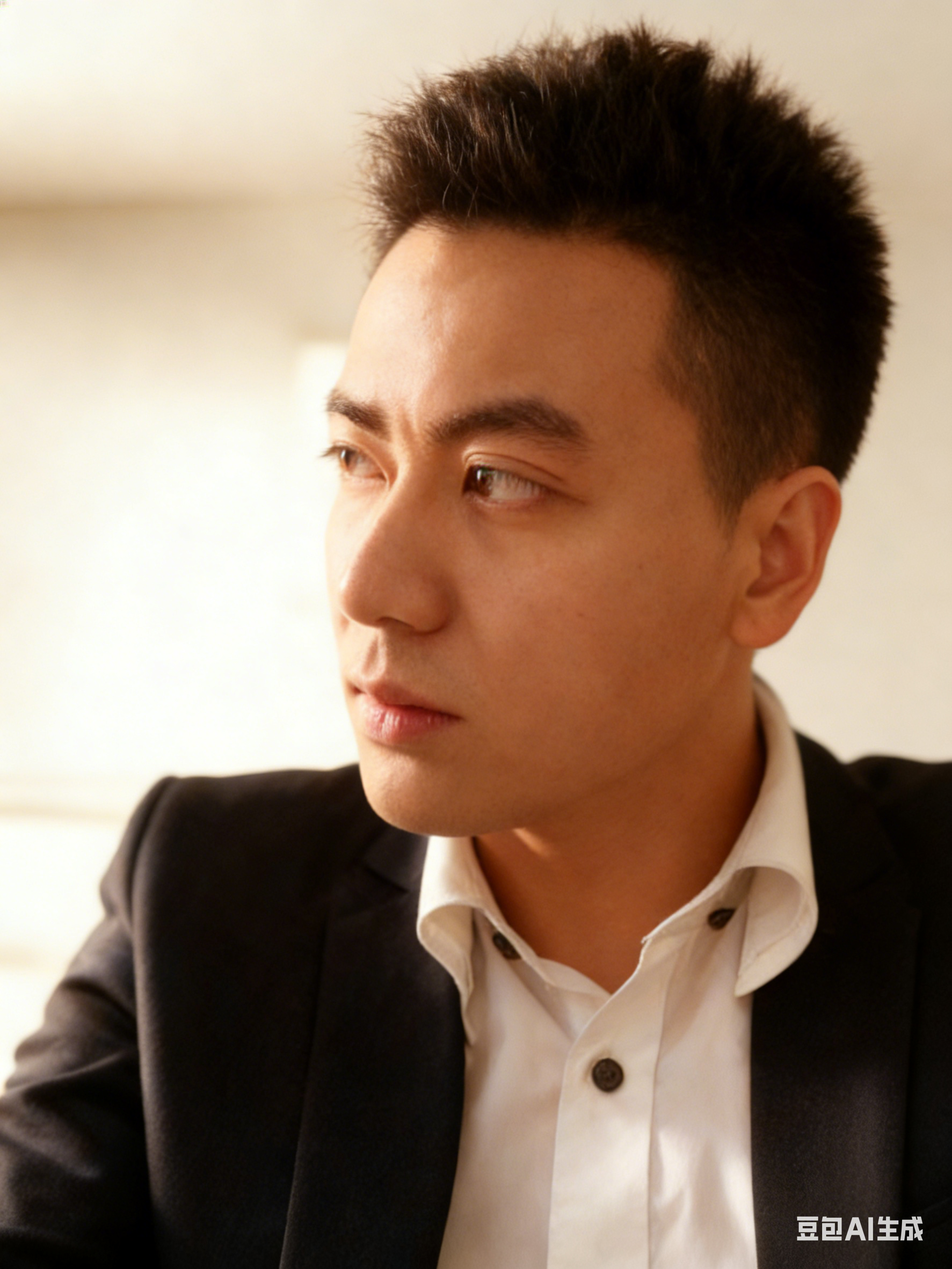
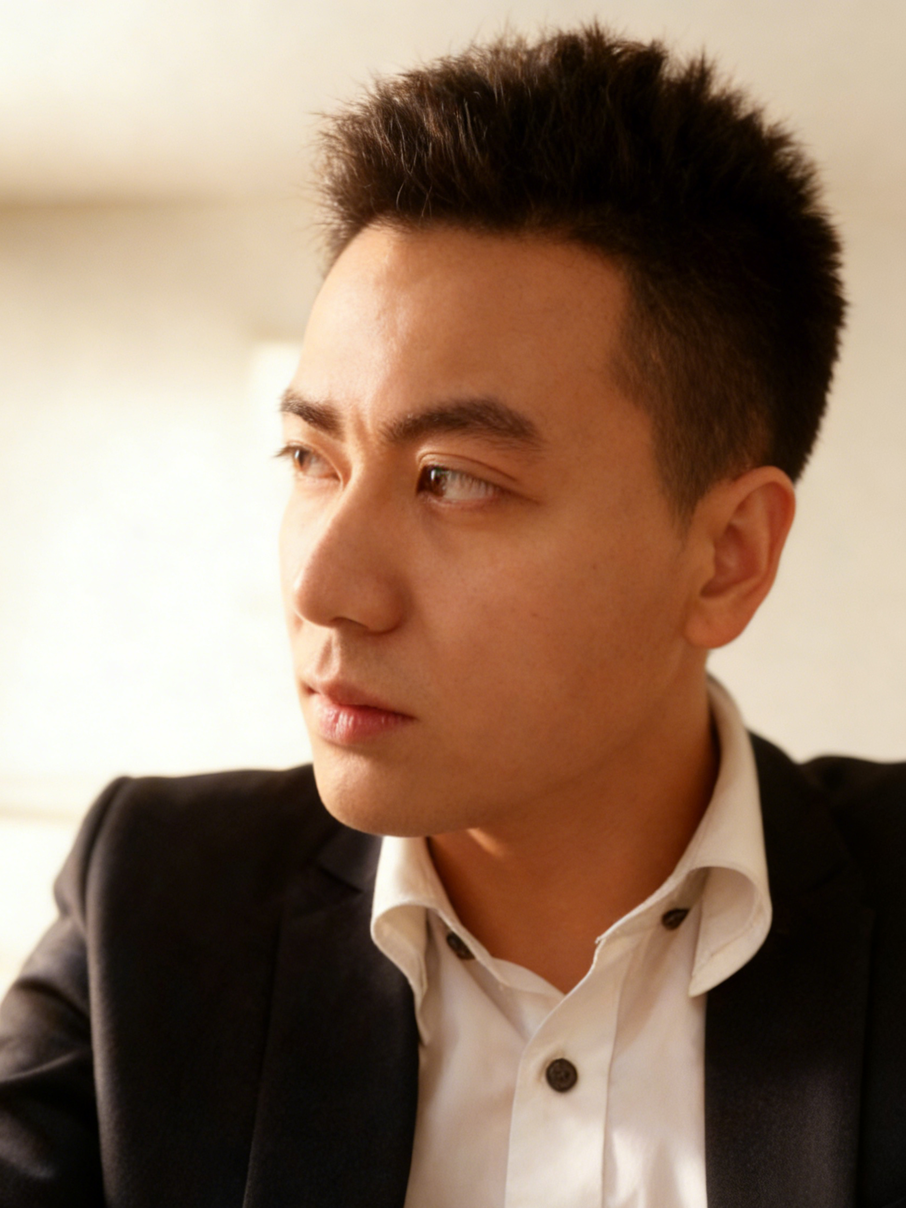
fix

diff --git a/src/lib/i18n.ts b/src/lib/i18n.ts
@@ -268,22 +268,22 @@ const translations = {
         {
           name: "唐煜哲",
           role: "运营总监 (深圳)",
-          img: "https://images.unsplash.com/photo-1550521808-72787e91d374?w=400&h=500&fit=crop",
+          img: "/team/tyz.png",
         },
         {
           name: "张国强",
           role: "客户经理 (深圳)",
-          img: "https://images.unsplash.com/photo-1540569014015-19a7ee504e18?w=400&h=500&fit=crop",
+          img: "/team/zgq.png",
         },
         {
           name: "刘洋",
           role: "客户经理 (深圳)",
-          img: "https://images.unsplash.com/photo-1610088521094-0ba2657e2832?w=400&h=500&fit=crop",
+          img: "/team/ly.png",
         },
         {
           name: "陈淑菲",
           role: "客户经理 (洛杉矶)",
-          img: "https://images.unsplash.com/photo-1548142813-c348350df52b?w=400&h=500&fit=crop",
+          img: "/team/csf.png",
         },
       ],
     },
@@ -767,24 +767,24 @@ const translations = {
       description: "Our experienced team is always ready to solve your logistics challenges.",
       items: [
         {
-          name: "Lin Haonan",
+          name: "Tang Yuzhe",
           role: "Op Director (SZ)",
-          img: "https://images.unsplash.com/photo-1550521808-72787e91d374?w=400&h=500&fit=crop",
+          img: "/team/tyz.png",
         },
         {
-          name: "Wang Qiang",
+          name: "Zhang Guoqiang",
           role: "Account Manager (SZ)",
-          img: "https://images.unsplash.com/photo-1540569014015-19a7ee504e18?w=400&h=500&fit=crop",
+          img: "/team/zgq.png",
         },
         {
           name: "Liu Yang",
           role: "Account Manager (SZ)",
-          img: "https://images.unsplash.com/photo-1610088521094-0ba2657e2832?w=400&h=500&fit=crop",
+          img: "/team/ly.png",
         },
         {
-          name: "Sophie Chen",
+          name: "Chen Shufei",
           role: "Account Manager (LA)",
-          img: "https://images.unsplash.com/photo-1548142813-c348350df52b?w=400&h=500&fit=crop",
+          img: "/team/csf.png",
         },
       ],
     },

diff --git a/src/lib/components/home/Team.svelte b/src/lib/components/home/Team.svelte
@@ -46,7 +46,7 @@
                         </div>
 
                         <!-- Hoverable Contact Info -->
-                        <div
+                        <!-- <div
                             class="flex space-x-3 opacity-0 group-hover:opacity-100 translate-y-4 group-hover:translate-y-0 transition-all duration-300"
                         >
                             <button
@@ -59,7 +59,7 @@
                             >
                                 <Phone class="w-4 h-4" />
                             </button>
-                        </div>
+                        </div> -->
                     </div>
 
                     <!-- Top Badge (optional) -->
